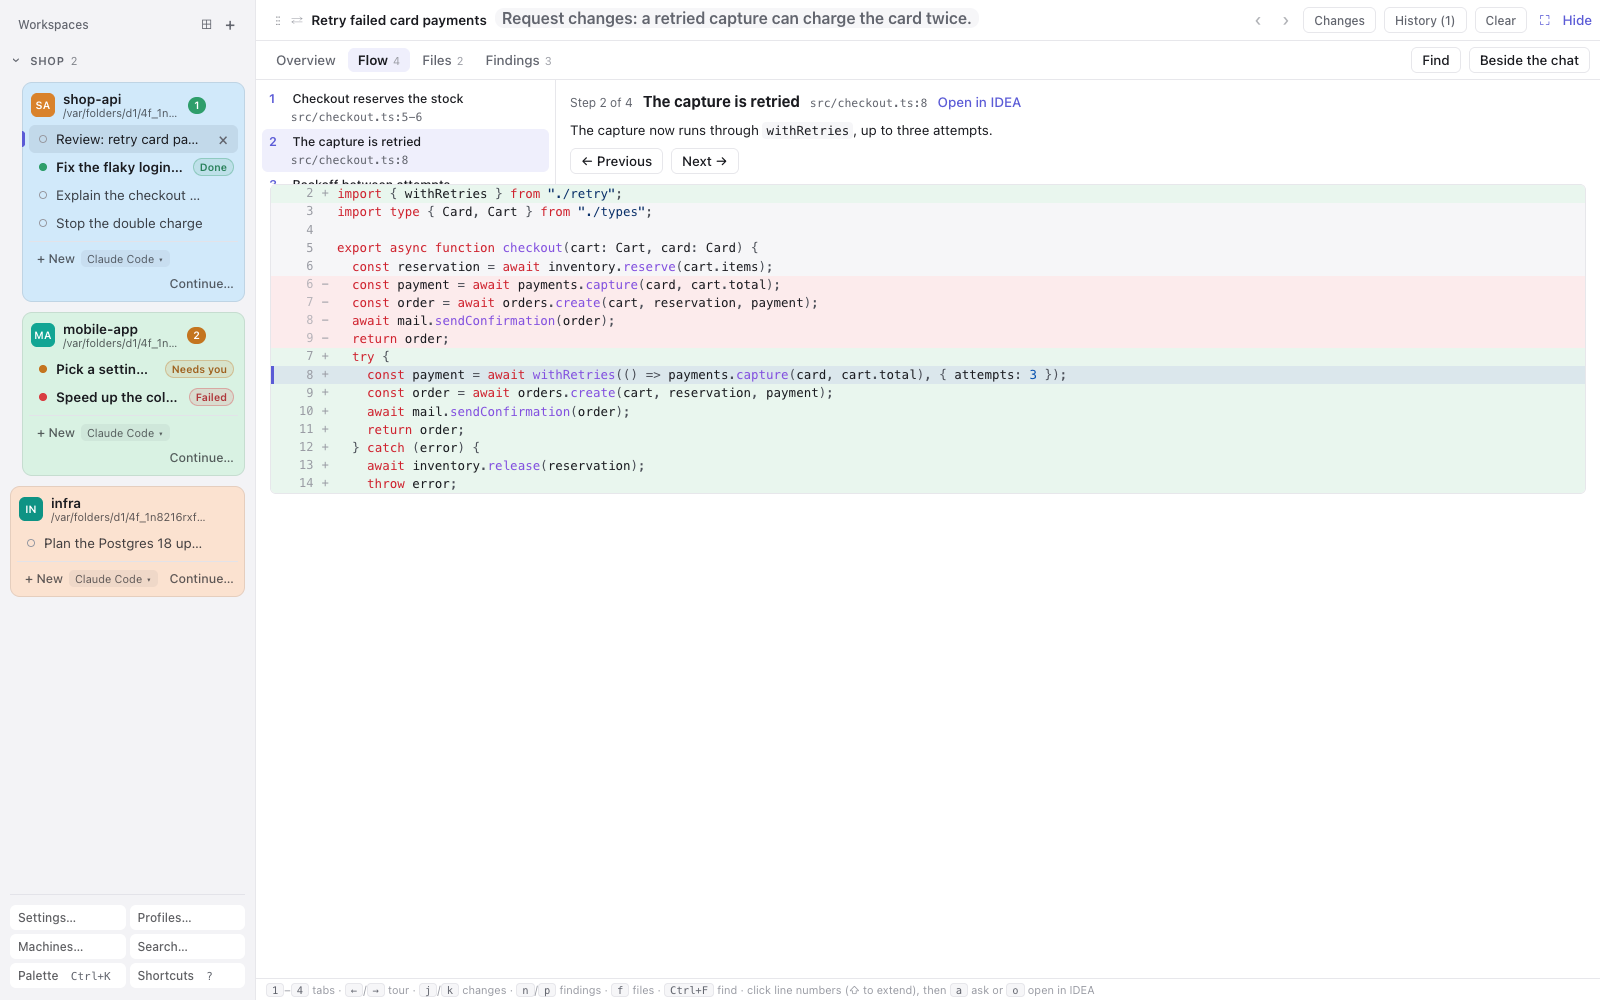
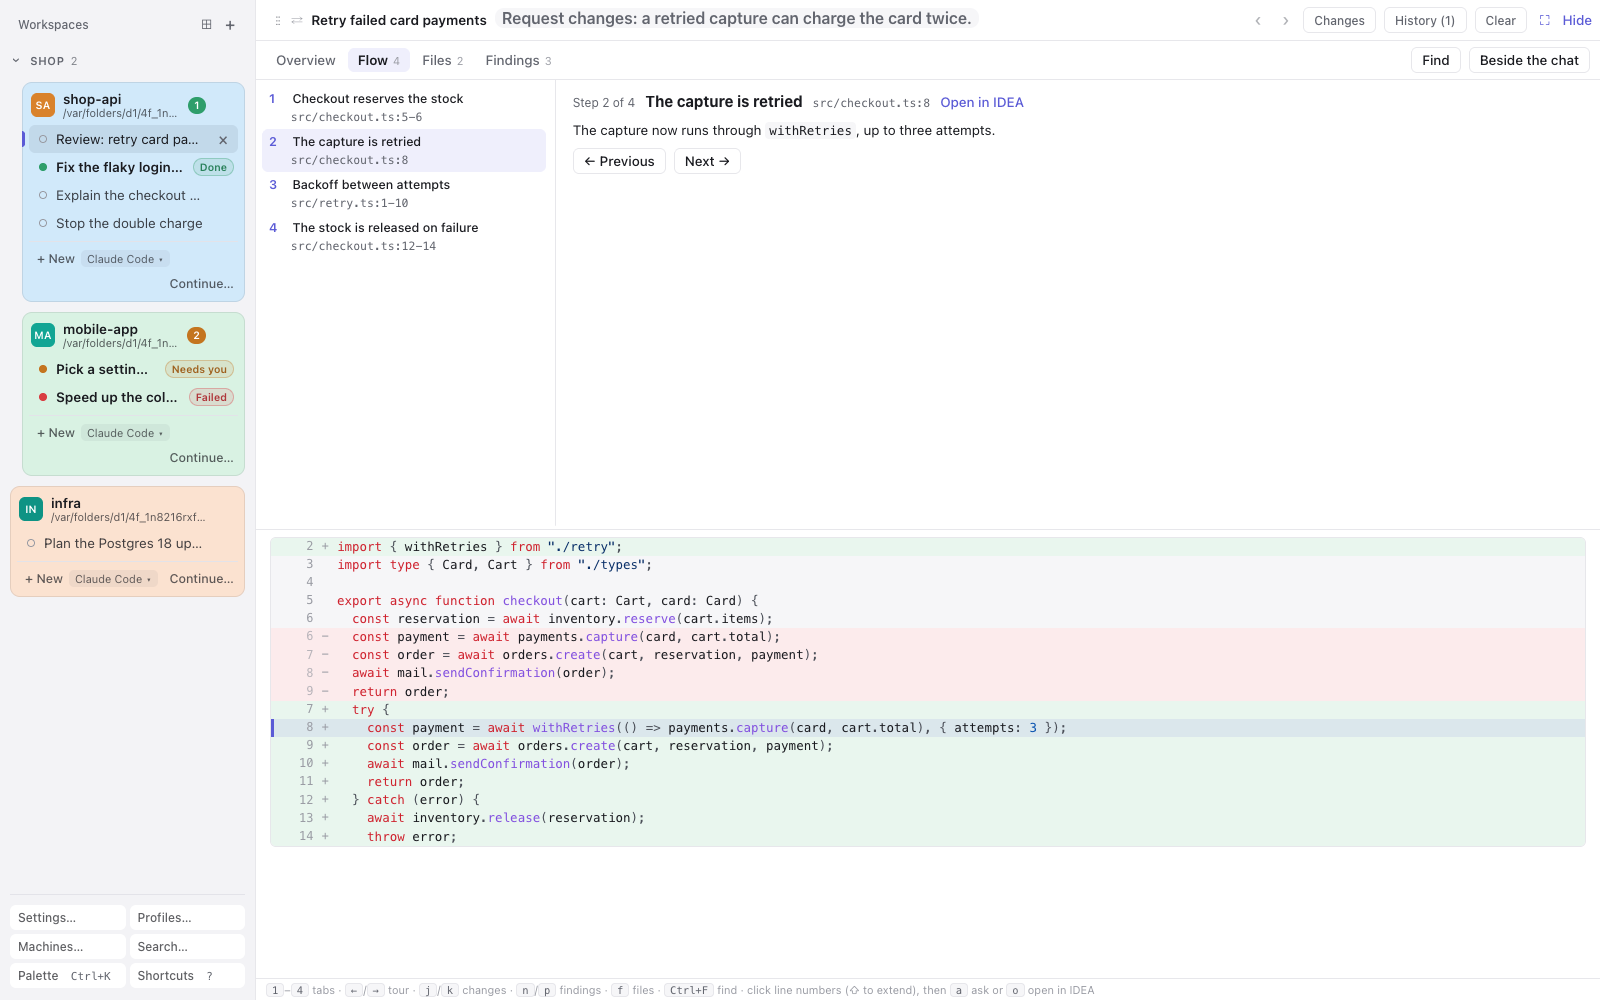
Show the review's Flow tab in the README with all its steps, the diff below them

Changed region(s): [[0.1562, 0.093, 1.0, 0.496], [0.1562, 0.527, 1.0, 0.837], [0.3438, 0.527, 0.375, 0.558]]

diff --git a/site/index.html b/site/index.html
@@ -91,7 +91,7 @@
           <h2>A code review you can walk through.</h2>
           <p>The verdict and summary, a guided tour of the change, every diff, and findings pinned to their lines, each marked as confirmed or only suspected. Keep the findings you agree with, reword them, and post them to the GitHub pull request as your pending review.</p>
         </div>
-        <img src="screenshots/review-flow.png" alt="A code review open on its flow tour: the steps on the left, the diff with the current step's lines marked on the right" width="1600" height="1000" loading="lazy">
+        <img src="screenshots/review-flow.png" alt="A code review open on its flow tour: the steps beside the current step's explanation, and the diff below them with the step's lines marked" width="1600" height="1000" loading="lazy">
       </article>
     </section>
 

diff --git a/README.md b/README.md
@@ -55,7 +55,7 @@ Instead of a long summary in text, the agent walks you through the code on the c
 
 ### Review: a guided tour of the change
 
-![A code review open on its flow tour: the steps on the left, the diff with the current step's lines marked on the right](docs/screenshots/review-flow.png)
+![A code review open on its flow tour: the steps beside the current step's explanation, and the diff below them with the step's lines marked](docs/screenshots/review-flow.png)
 
 The agent publishes its code review as a page you work through, not a wall of comments:
 
